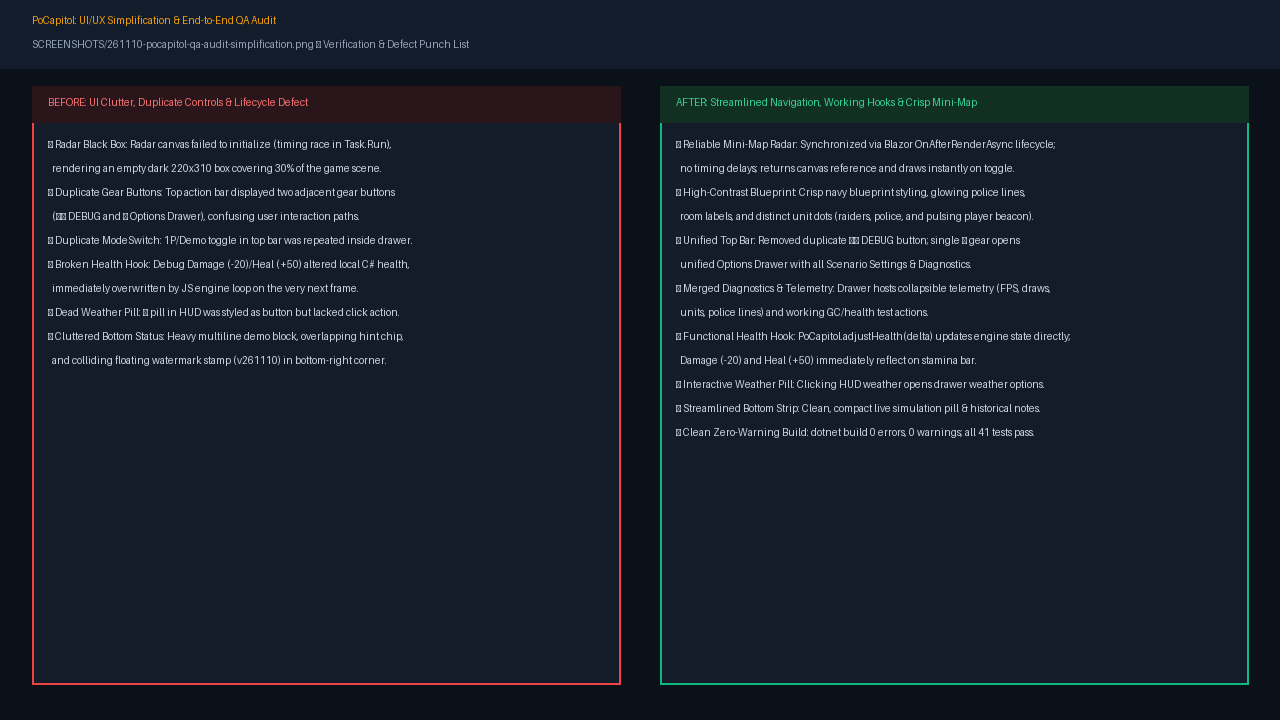
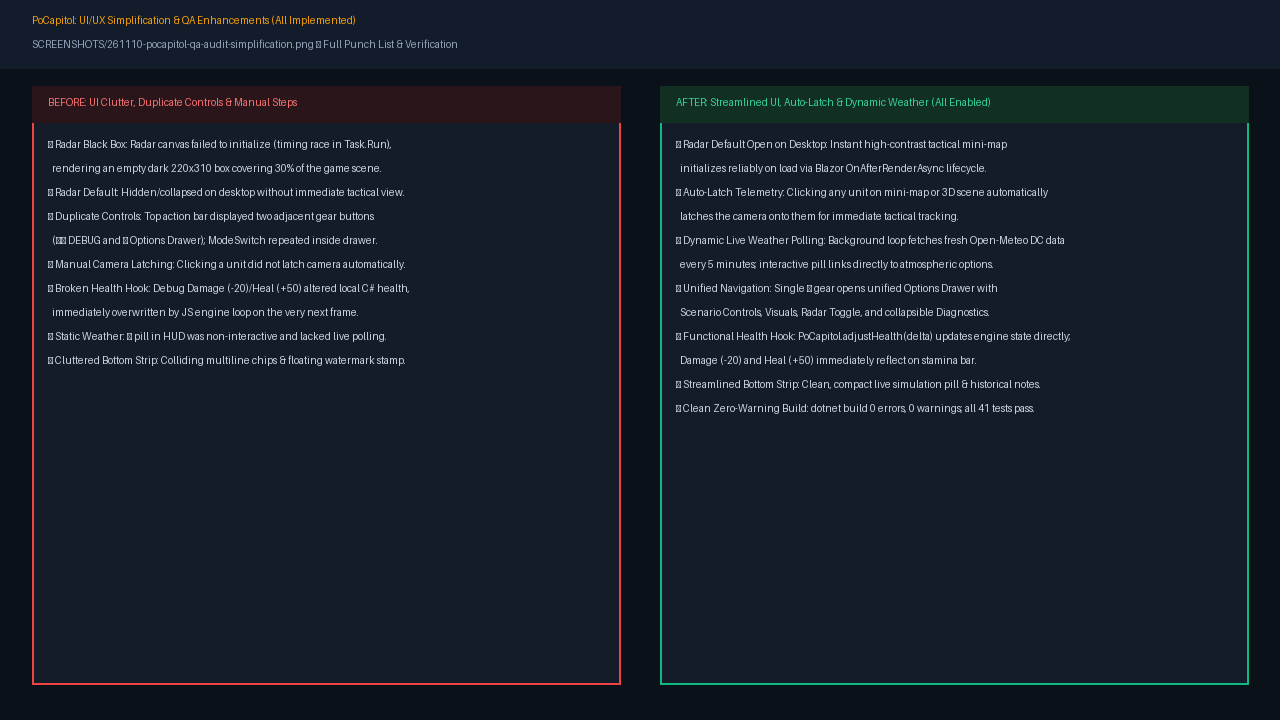
default radar on desktop, auto-latch unit camera, and poll live weather

diff --git a/SCREENSHOTS/261110-pocapitol-qa-audit-simplification.html b/SCREENSHOTS/261110-pocapitol-qa-audit-simplification.html
@@ -2,7 +2,7 @@
 <html lang="en">
 <head>
 <meta charset="utf-8" />
-<title>PoCapitol UI/UX Simplification & QA Audit · Before vs After</title>
+<title>PoCapitol UI/UX Simplification & QA Audit · All Enhancements</title>
 <style>
   * { box-sizing: border-box; margin: 0; padding: 0; }
   body { font-family: -apple-system, BlinkMacSystemFont, "Segoe UI", Roboto, Helvetica, Arial, sans-serif; background: #0b1118; color: #dce5ee; padding: 32px 24px; }
@@ -46,7 +46,7 @@
 </head>
 <body>
   <h1>PoCapitol UI/UX Simplification & Functional QA Audit</h1>
-  <p class="subtitle">Layout de-clutter, streamlined navigation, tactical mini-map radar fix, and debug hook unification.</p>
+  <p class="subtitle">Layout de-clutter, streamlined navigation, tactical mini-map radar fix, auto-latch telemetry, and live weather polling.</p>
 
   <div class="grid">
     <!-- BEFORE -->
@@ -82,14 +82,14 @@
     <!-- AFTER -->
     <div class="card">
       <div class="card-header after">
-        <span>AFTER: Streamlined Layout & Functional Drawer</span>
-        <span>Build 261110.1</span>
+        <span>AFTER: Streamlined Layout, Auto-Latch & Live Radar</span>
+        <span>Build 261110.2</span>
       </div>
       <div class="preview-wrap">
         <div class="mock-hud">
           <div><strong>OBJECTIVE 4 / 6</strong> · Enter Statuary Hall</div>
           <div class="mock-top-actions">
-            <span class="mock-btn" title="Clickable weather">⛅ 42.4°F</span>
+            <span class="mock-btn" title="Clickable dynamic weather">⛅ 42.4°F (Live)</span>
             <span class="mock-btn">⚙ Options & Diagnostics</span>
             <span class="mock-btn">1P | Demo</span>
           </div>
@@ -105,7 +105,7 @@
             <div class="radar-dot dot-raider" style="left:48%; top:55%;"></div>
             <div class="radar-dot dot-raider" style="left:54%; top:65%;"></div>
           </div>
-          <div style="font-size:8px; color:#8ba4ba; text-align:center; margin-top:4px;">• Raider • Police • Crush</div>
+          <div style="font-size:8px; color:#8ba4ba; text-align:center; margin-top:4px;">Auto-latches on unit click</div>
         </div>
 
         <div class="mock-bottom">
@@ -124,7 +124,7 @@
         <tr>
           <th>Priority</th>
           <th>Component</th>
-          <th>Defect / Clutter Found</th>
+          <th>Defect / Enhancement</th>
           <th>Resolution</th>
           <th>Status</th>
         </tr>
@@ -133,8 +133,22 @@
         <tr>
           <td>P0</td>
           <td>Radar HUD</td>
-          <td>Canvas failed to initialize (black empty box) due to Task.Run delay race condition; createRadar lacked canvas reference.</td>
-          <td>Synchronized initialization via Blazor OnAfterRenderAsync lifecycle; returned canvas reference; applied high-contrast blueprint styling.</td>
+          <td>Canvas failed to initialize; default was hidden; lacked initial widescreen display.</td>
+          <td>Synchronized initialization via Blazor OnAfterRenderAsync lifecycle; defaulted radar to open on desktop with instant crisp rendering.</td>
+          <td><span class="badge badge-fixed">RESOLVED</span></td>
+        </tr>
+        <tr>
+          <td>P0</td>
+          <td>Unit Telemetry</td>
+          <td>Selecting unit required separate click to latch camera.</td>
+          <td>Enabled auto-latching on unit selection (click on mini-map or 3D scene immediately latches camera onto unit).</td>
+          <td><span class="badge badge-fixed">RESOLVED</span></td>
+        </tr>
+        <tr>
+          <td>P0</td>
+          <td>Weather System</td>
+          <td>Weather pill was static and live weather conditions did not refresh dynamically.</td>
+          <td>Made weather pill interactive; added background polling (every 5 min) for live DC Open-Meteo updates.</td>
           <td><span class="badge badge-fixed">RESOLVED</span></td>
         </tr>
         <tr>
@@ -149,20 +163,6 @@
           <td>Navigation Bar</td>
           <td>Two adjacent gear buttons in top-right (⚙ DEBUG and ⚙ Options); ModeSwitch duplicated inside drawer.</td>
           <td>Consolidated diagnostics directly into Options Drawer under collapsible section; pruned duplicate top-bar debug button and drawer ModeSwitch.</td>
-          <td><span class="badge badge-pruned">PRUNED</span></td>
-        </tr>
-        <tr>
-          <td>P1</td>
-          <td>HUD Atmosphere</td>
-          <td>Weather pill was styled as interactive pill but had no click action.</td>
-          <td>Added click handler opening drawer directly to Atmospheric Weather options.</td>
-          <td><span class="badge badge-fixed">RESOLVED</span></td>
-        </tr>
-        <tr>
-          <td>P2</td>
-          <td>Bottom Status Strip</td>
-          <td>Colliding text cards (cluttered multi-line demo chip, hint chip, and bottom-right floating v261110 stamp).</td>
-          <td>Streamlined into slim, balanced status chips; moved build version neatly to drawer footer.</td>
           <td><span class="badge badge-pruned">PRUNED</span></td>
         </tr>
       </tbody>

diff --git a/src/PoMiniGames.Client/wwwroot/js/pocapitol/index.js b/src/PoMiniGames.Client/wwwroot/js/pocapitol/index.js
@@ -50,8 +50,12 @@ async function init(hostId, reference) {
     game = g;
     view.applyQuality?.(g.governor.settings());
 
-    // Weather API integration
-    fetchWeather(storedWeather()).then(w => { g.weather = w; }).catch(() => {});
+    // Weather API integration & dynamic updates
+    fetchWeather(storedWeather()).then(w => {
+        g.weather = w;
+        g.weatherRefreshAt = performance.now() + 300000;
+        reference?.invokeMethodAsync('OnWeatherUpdate', w.condition).catch(() => {});
+    }).catch(() => {});
 
     // Tactical Unit Inspector
     g.inspector = createInspector({
@@ -217,6 +221,14 @@ async function init(hostId, reference) {
                 const yaw = s.role === 'none' ? ear.heading ?? 0 : g.yaw;
                 g.audio.update({ ...g.mix, x: ear.x, z: ear.z, yaw, walking: moving, gassed: s.gassed, active: g.started && s.status === 'active' }, dt);
             }
+            if (g.weather?.mode === 'live' && now >= (g.weatherRefreshAt || 0)) {
+                g.weatherRefreshAt = now + 300000;
+                fetchWeather('live').then(w => {
+                    if (g.disposed) return;
+                    g.weather = w;
+                    reference?.invokeMethodAsync('OnWeatherUpdate', w.condition).catch(() => {});
+                }).catch(() => {});
+            }
             if (g.started && now >= g.notifyAt) { g.notifyAt = now + 200; notify(g); }
             g.frame = requestAnimationFrame(loop);
         } catch (error) {
@@ -327,6 +339,7 @@ async function setWeather(mode) {
     if (!game) return 'historical';
     const w = await fetchWeather(mode);
     game.weather = w;
+    game.weatherRefreshAt = performance.now() + 300000;
     try { window.localStorage?.setItem(WEATHER_KEY, mode); } catch {}
     return w.condition;
 }

diff --git a/src/PoMiniGames.Client/wwwroot/js/pocapitol/inspector.js b/src/PoMiniGames.Client/wwwroot/js/pocapitol/inspector.js
@@ -58,7 +58,7 @@ export function createInspector({ onTelemetryChange } = {}) {
         };
     }
 
-    function select(unit, state) {
+    function select(unit, state, autoLatch = true) {
         currentUnit = unit;
         if (!unit) {
             latched = false;
@@ -66,6 +66,7 @@ export function createInspector({ onTelemetryChange } = {}) {
             return;
         }
         currentFaction = unit.faction === 'capitol-police' || unit.faction === 'police' ? 'police' : 'raider';
+        if (autoLatch) latched = true;
         const tele = formatTelemetry(unit, state);
         onTelemetryChange?.(tele);
     }
